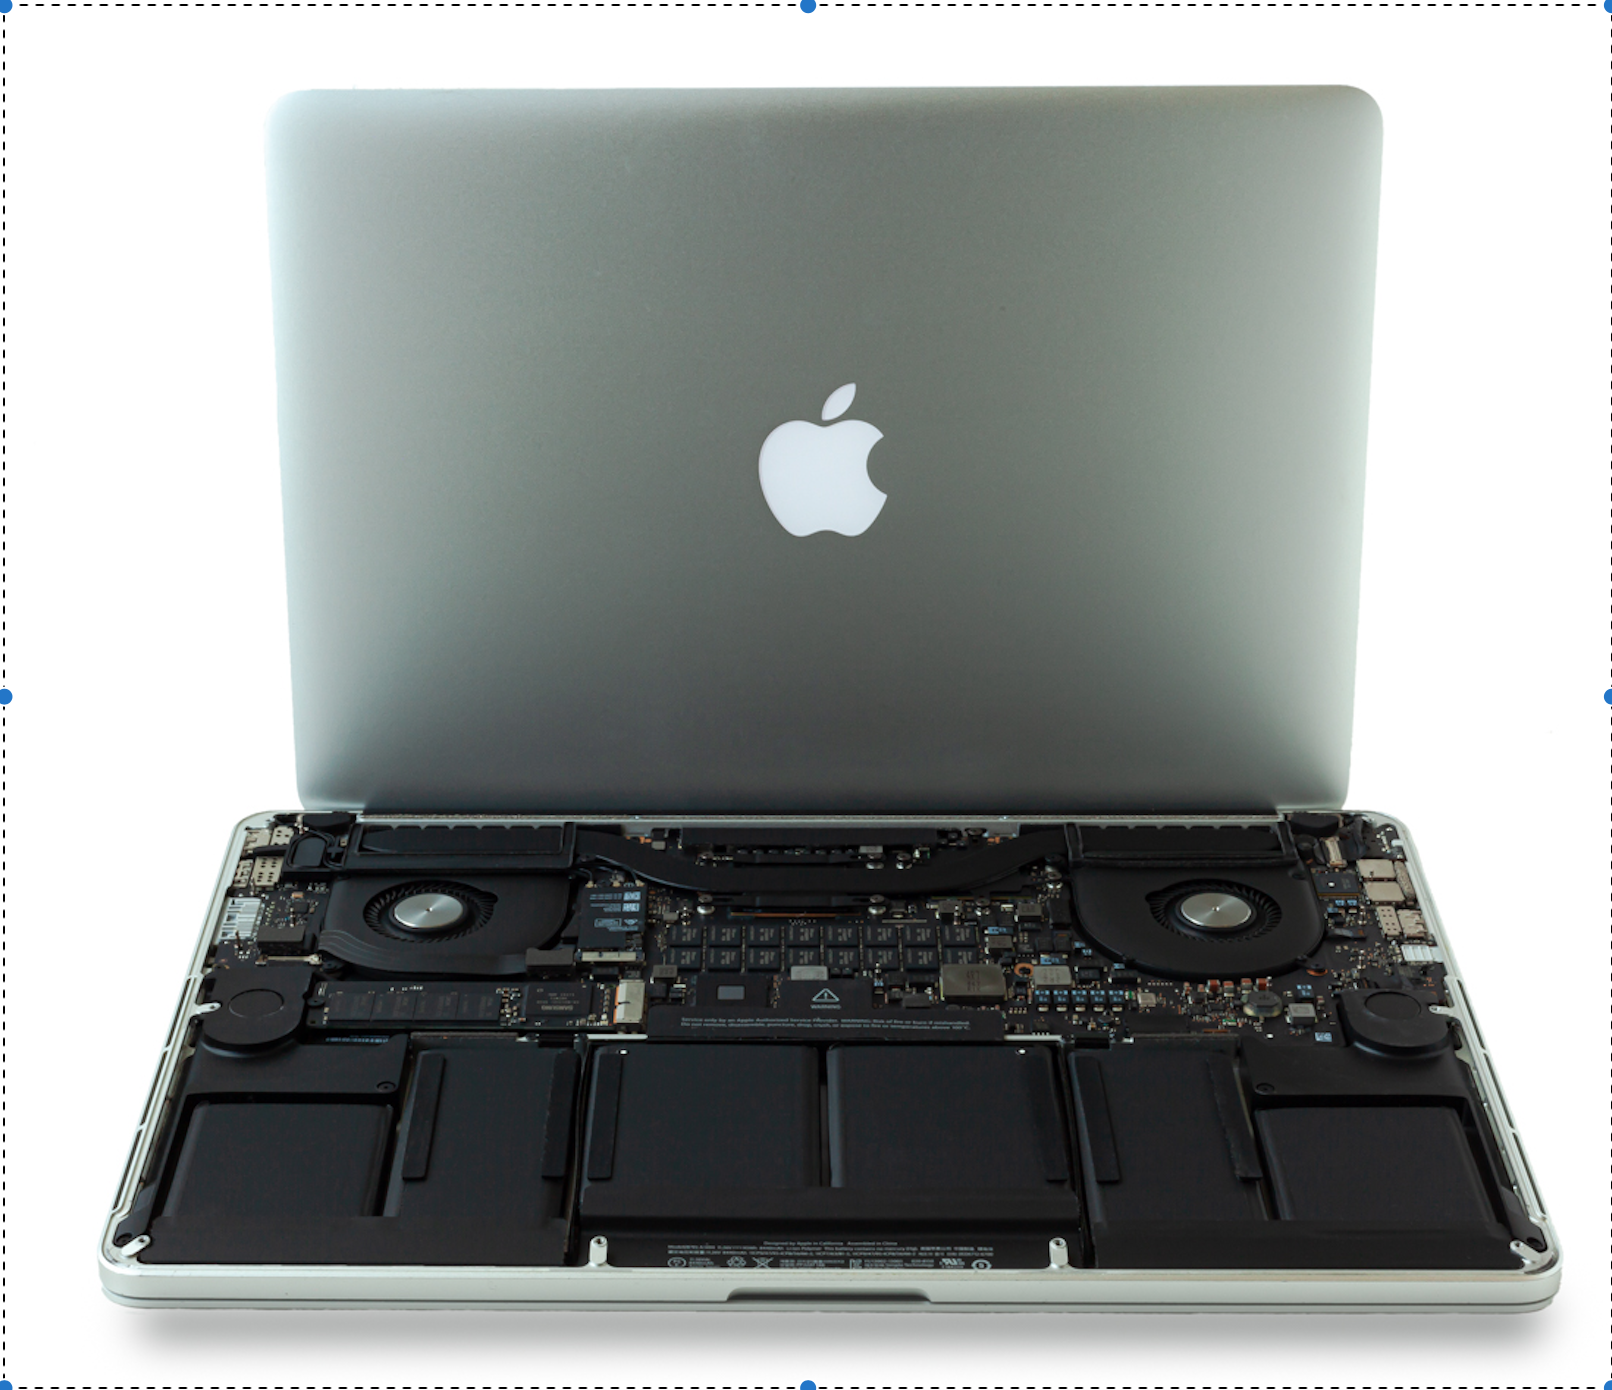
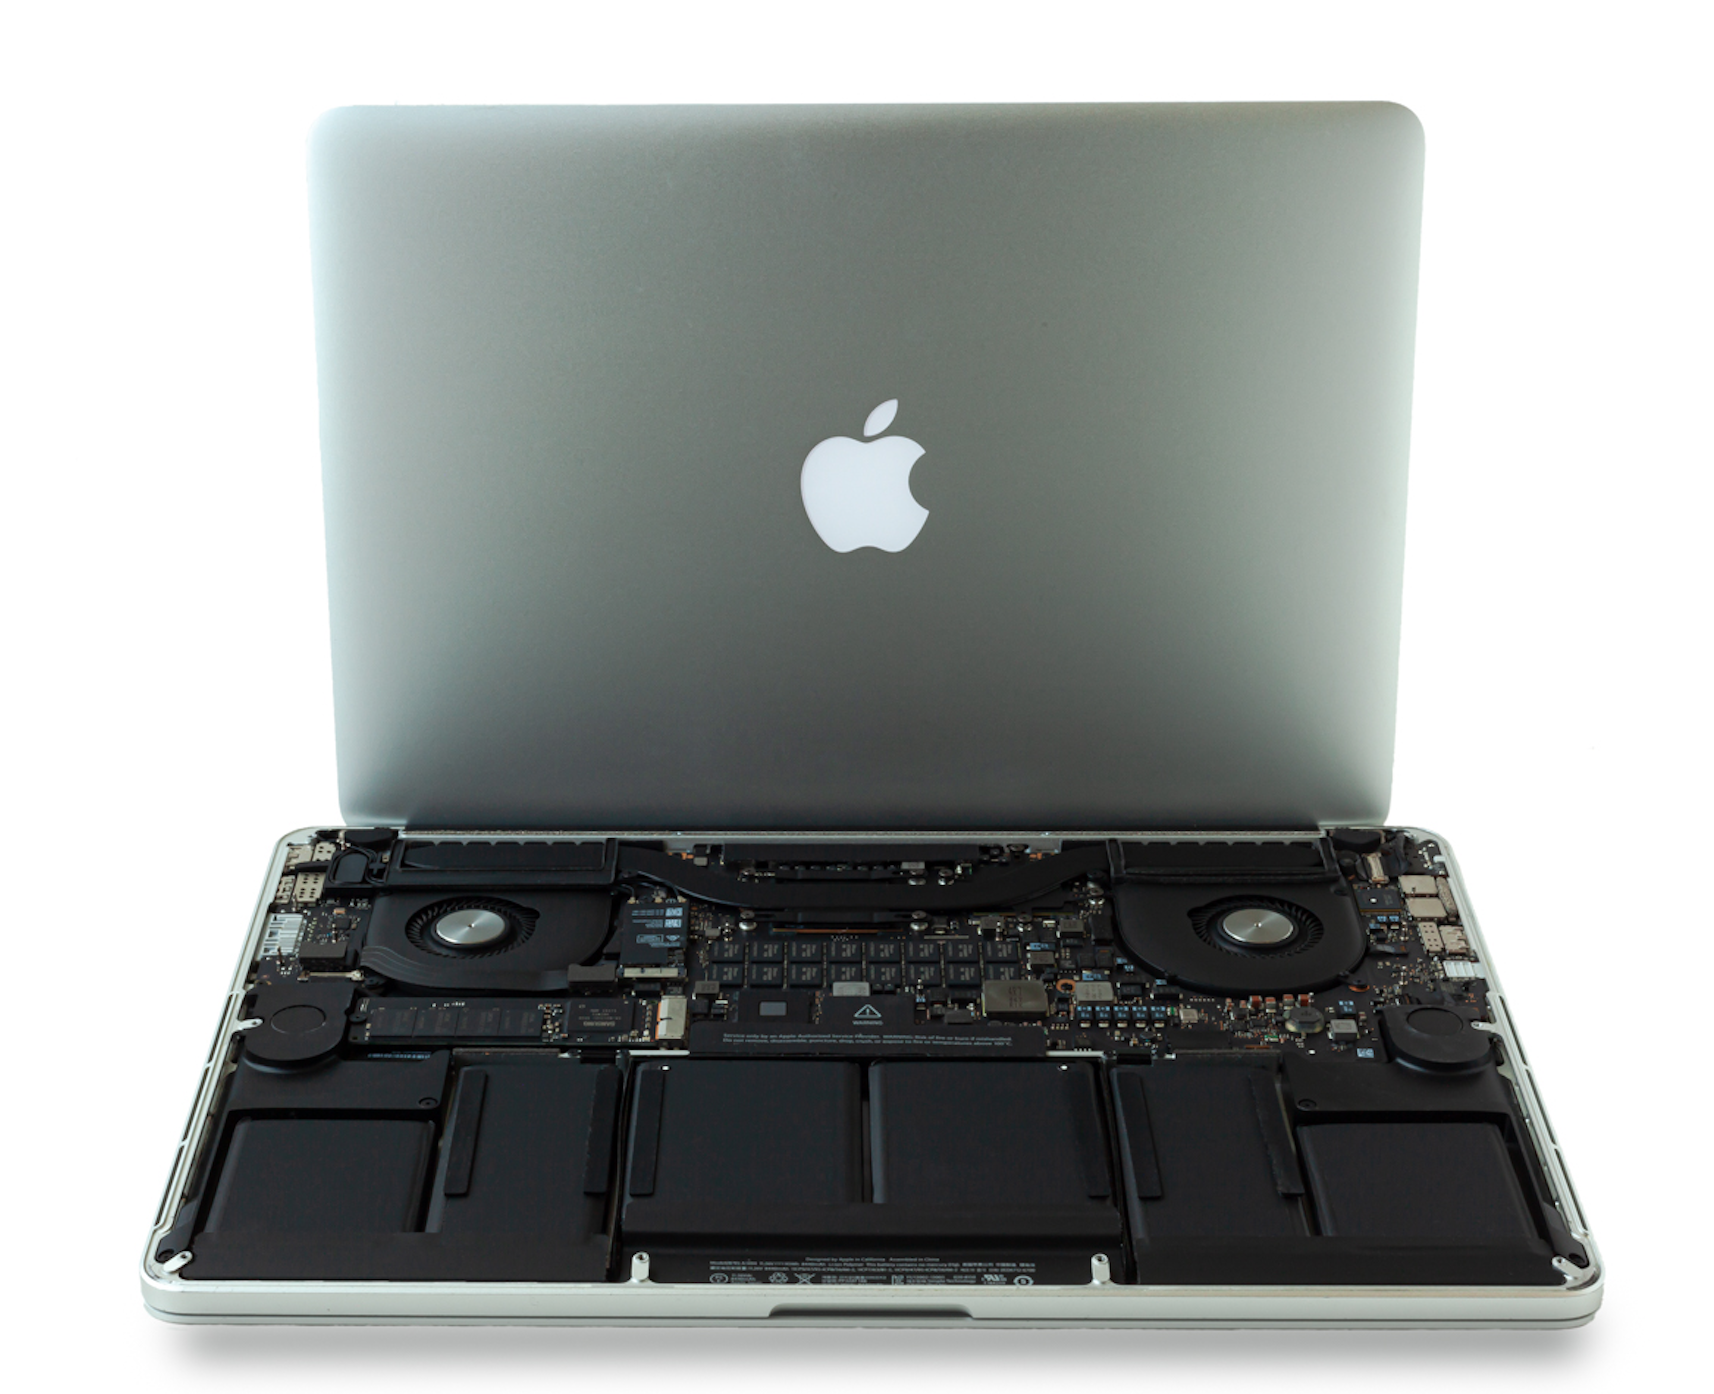
add two more provided services

diff --git a/src/constants/repairs.tsx b/src/constants/repairs.tsx
@@ -1,4 +1,4 @@
-import { iphonerepair, smartphonerepair, macbookrepair } from "../assets";
+import { iphonerepair, smartphonerepair, ipadtabletrepair, macbookrepair, laptoprepair } from "../assets";
 
 export const repairs = [
     {
@@ -21,11 +21,11 @@ export const repairs = [
             },
             {
                 id: 4,
-                repair: "camera malfunctioning",
+                repair: "Camera malfunctioning",
             },
             {
                 id: 5,
-                repair: "power/volume button",
+                repair: "Power/volume button",
             },
             {
                 id: 6,
@@ -33,7 +33,7 @@ export const repairs = [
             },
             {
                 id: 7,
-                repair: "no power-related issues (motherboard repair)",
+                repair: "No power-related issues (motherboard repair)",
             },
         ],
         inquiry: [
@@ -59,7 +59,7 @@ export const repairs = [
             },
             {
                 id: 2,
-                repair: "Charging portcharging port",
+                repair: "Charging port",
             },
             {
                 id: 3,
@@ -67,11 +67,11 @@ export const repairs = [
             },
             {
                 id: 4,
-                repair: "camera malfunctioning",
+                repair: "Camera malfunctioning",
             },
             {
                 id: 5,
-                repair: "power/volume button",
+                repair: "Power/volume button",
             },
             {
                 id: 6,
@@ -79,7 +79,7 @@ export const repairs = [
             },
             {
                 id: 7,
-                repair: "no power-related issues (motherboard repair)",
+                repair: "No power-related issues (motherboard repair)",
             },
         ],
         inquiry: [
@@ -93,15 +93,61 @@ export const repairs = [
         image: smartphonerepair,
     },
     {
-        id: 'macbook_repair',
-        title: "Smartphone Repair",
-        description: "At MAX REPAIR, you can get help with simple upgrades on your mac to a motherboard level repairs.",
-        extradescription: "We are specialized in Samsung, Huawei, Xiaomi, Google, and OnePlus.",
-        listTitle: "We can troubleshoot and FIX:",
+        id: 'ipadtablet_repair',
+        title: "iPad / Tablet Repair",
+        description: "At MAX REPAIR, you can get help with your Apple iPad, Microsoft, or any Tablet in no time",
+        extradescription: "We are specialized in Apple iPad's, Microsoft Surface/Book, Samsung, Huawei, Google.",
+        listTitle: "We can FIX:",
         listofrepairs: [
             {
                 id: 1,
-                repair: "software/driver issues with Mac OS",
+                repair: "Broken screen",
+            },
+            {
+                id: 2,
+                repair: "Charging port",
+            },
+            {
+                id: 3,
+                repair: "Faulty battery",
+            },
+            {
+                id: 4,
+                repair: "Camera malfunctioning",
+            },
+            {
+                id: 5,
+                repair: "Power/volume button",
+            },
+            {
+                id: 6,
+                repair: "liquid damage",
+            },
+            {
+                id: 7,
+                repair: "No power-related issues (motherboard repair)",
+            },
+        ],
+        inquiry: [
+            {
+                id: 1,
+                description: "For any inquiry, don’t hesitate to give us a call or send us an email:",
+                phonenumber: "905 517 9610",
+                email: "mailto:max@pcmaxrepair.ca",
+            }
+        ],
+        image: ipadtabletrepair,
+    },
+    {
+        id: 'macbook_repair',
+        title: "MacBook Repair",
+        description: "At MAX REPAIR, you can get help with simple upgrades on your mac to a motherboard level repairs.",
+        extradescription: "We are specialized in Samsung, Huawei, Xiaomi, Google, and OnePlus.",
+        listTitle: "We can troubleshoot and FIX in any MAC:",
+        listofrepairs: [
+            {
+                id: 1,
+                repair: "Software/driver issues with Mac OS",
             },
             {
                 id: 2,
@@ -145,6 +191,60 @@ export const repairs = [
             }
         ],
         image: macbookrepair,
+    },
+    {
+        id: 'laptop_repair',
+        title: "Laptop Repair",
+        description: "At MAX REPAIR, you can get help with simple upgrades on your laptop to a motherboard level repairs.",
+        extradescription: "We are specialized in Asus, Acer, Lenovo, Dell, Toshiba, Chromebook, MSI, and HP.",
+        listTitle: "We can troubleshoot and FIX:",
+        listofrepairs: [
+            {
+                id: 1,
+                repair: "Software/driver issues with Windows OS",
+            },
+            {
+                id: 2,
+                repair: "Laptop HDD/SSD replacement and OS reinstallation and Data transfer",
+            },
+            {
+                id: 3,
+                repair: "Faulty battery",
+            },
+            {
+                id: 4,
+                repair: "Dc/Power jack repair",
+            },
+            {
+                id: 5,
+                repair: "LCD screen replacement/repair",
+            },
+            {
+                id: 6,
+                repair: "liquid damage cleaning and repair.",
+            },
+            {
+                id: 7,
+                repair: "Keyboard and trackpad repair.",
+            },
+            {
+                id: 8,
+                repair: "Virus cleaning", 
+            },
+            {
+                id: 9,
+                repair: "We can recover your lost data or simple transfer it.",
+            },
+        ],
+        inquiry: [
+            {
+                id: 1,
+                description: "For any inquiry, don’t hesitate to give us a call or send us an email:",
+                phonenumber: "905 517 9610",
+                email: "mailto:max@pcmaxrepair.ca",
+            }
+        ],
+        image: laptoprepair,
     },
 ]
 

diff --git a/src/assets/index.ts b/src/assets/index.ts
@@ -3,6 +3,8 @@ import menu from './menu.svg';
 import iphonerepair from './Max_Repair_web-05.jpg';
 import smartphonerepair from './pexels-noah-erickson-404280.jpg';
 import macbookrepair from './macbookrepair.png';
+import laptoprepair from './Max_Repair_web-10.jpg';
+import ipadtabletrepair from './ipadtabletrepair.png';
 
 export {
     close,
@@ -10,4 +12,6 @@ export {
     iphonerepair,
     smartphonerepair,
     macbookrepair,
+    laptoprepair,
+    ipadtabletrepair,
 };
